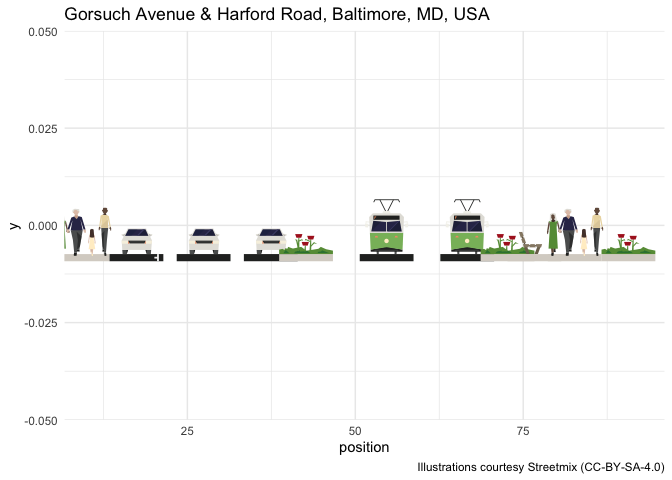
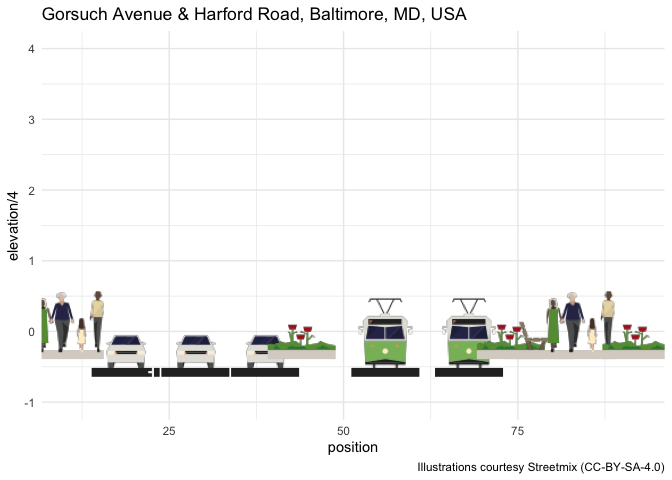
docs: rebuild README
Also add ggsvg to Suggests

diff --git a/README.md b/README.md
@@ -23,13 +23,13 @@ Streetmix uses [the Axios
 library](https://docs.streetmix.net/contributing/code/reference/helpers)
 to support the following end-points:
 
--   getStreet,
--   deleteStreetImage
--   getGalleryForUser
--   getGalleryForAllStreets
--   getSentimentSurveyStreet
--   postSentimentSurveyVote
--   putSentimentSurveyComment
+- getStreet,
+- deleteStreetImage
+- getGalleryForUser
+- getGalleryForAllStreets
+- getSentimentSurveyStreet
+- postSentimentSurveyVote
+- putSentimentSurveyComment
 
 The get_streets function supports getStreet (using url or street_id),
 getGalleryForUser (using user_id), and getGalleryForAllStreets (using
@@ -76,7 +76,8 @@ a Streetmix url:
 street <-
   get_street(
     url = "https://streetmix.net/eli.pousson/6/harford-road-south-of-gorsuch-avenue-1950s",
-    return = "street")
+    return = "street"
+  )
 ```
 
 The segment data for a street can be analyzed or plotted, as this
@@ -103,17 +104,22 @@ the [{ggsvg} package](https://github.com/coolbutuseless/ggsvg) to
 display the illustrations in their approximate positions:
 
 ``` r
-segments <- street$segments %>% 
-  left_join(illustrations, by = c("type" = "name")) %>% 
+segments <- street$segments %>%
+  left_join(illustrations, by = c("type" = "name")) %>%
   mutate(
     position = cumsum(width)
   )
 
-segments$url <- sapply(segments$url, function(x) {paste(readLines(x), collapse = "\n")})
+segments$url <- sapply(segments$url, function(x) {
+  paste(readLines(x), collapse = "\n")
+})
 
 ggplot(data = segments) +
   ggsvg::geom_point_svg(
-    mapping = aes(x = position, y = 0, svg = url), size = 18
+    mapping = aes(x = position, y = elevation / 4, svg = url), size = 18
+  ) +
+  scale_y_continuous(
+    limits = c(-1, 4)
   ) +
   labs(
     title = street$location$label,
@@ -122,19 +128,24 @@ ggplot(data = segments) +
   theme_minimal()
 ```
 
+<img src="man/figures/README-illustrations-1.png" width="100%" />
+
 You can also get streets by user id or download a selection of recent
 streets using the \`count\` parameter:
 
 ``` r
-get_street(user_id = "eli.pousson")$streets %>% 
-  select(-c(creatorIp, data)) %>% 
+get_street(user_id = "eli.pousson")$streets %>%
+  select(-c(creatorIp, data)) %>%
   knitr::kable()
 ```
 
 | id                                   | namespacedId | status | name                                         | creatorId   | originalStreetId                     | clientUpdatedAt          | createdAt                | updatedAt                |
 |:-------------------------------------|-------------:|:-------|:---------------------------------------------|:------------|:-------------------------------------|:-------------------------|:-------------------------|:-------------------------|
+| 2c3905bf-1729-492b-8741-e5ad1298a4b6 |           10 | ACTIVE | Harford Road south of Gorsuch Avenue (1950s) | eli.pousson | 587bc700-3159-11ec-896a-75aec116883c | 2021-10-20T03:58:55.769Z | 2023-10-19T20:37:28.278Z | 2023-10-19T20:37:28.420Z |
+| 587bc700-3159-11ec-896a-75aec116883c |            6 | ACTIVE | Harford Road south of Gorsuch Avenue (1950s) | eli.pousson | 32bfe550-3159-11ec-896a-75aec116883c | 2021-10-20T03:58:55.769Z | 2021-10-20T03:53:54.809Z | 2023-07-31T14:22:04.892Z |
+| 48094c9a-d019-4495-b183-df202da0f2d9 |            9 | ACTIVE | Sample Mixed Use Path with Green Space       | eli.pousson | 13b8567a-223d-4fde-a7ed-100375e1ddc9 | 2023-05-04T19:42:15.333Z | 2023-07-31T14:21:52.653Z | 2023-07-31T14:21:52.812Z |
+| 13b8567a-223d-4fde-a7ed-100375e1ddc9 |            8 | ACTIVE | Sample Mixed Use Path with Green Space       | eli.pousson | 874d79aa-d56f-4930-a3bb-32bafdb9006a | 2023-05-04T19:42:15.333Z | 2023-05-04T17:29:57.796Z | 2023-05-04T19:42:15.927Z |
 | b26529c0-c1ad-11ec-877c-abfad556cfc6 |            7 | ACTIVE | N. Conkling Street (north of Eastern Avenue) | eli.pousson | f73c9f80-c1a6-11ec-877c-abfad556cfc6 | 2022-04-28T18:59:47.530Z | 2022-04-21T20:00:30.820Z | 2022-04-28T18:59:48.282Z |
-| 587bc700-3159-11ec-896a-75aec116883c |            6 | ACTIVE | Harford Road south of Gorsuch Avenue (1950s) | eli.pousson | 32bfe550-3159-11ec-896a-75aec116883c | 2021-10-20T03:58:55.769Z | 2021-10-20T03:53:54.809Z | 2021-10-20T03:58:56.384Z |
 | 32bfe550-3159-11ec-896a-75aec116883c |            5 | ACTIVE | Harford Road south of Gorsuch Avenue         | eli.pousson | 018fb100-3158-11ec-896a-75aec116883c | 2021-10-20T03:52:28.031Z | 2021-10-20T03:52:51.511Z | 2021-10-20T03:52:51.654Z |
 | 7e06c6b0-4793-11eb-a7cc-b5a263b6bae7 |            4 | ACTIVE | NA                                           | eli.pousson | 0f21bd30-90d3-11ea-946a-abc0544fc0fc | 2020-05-08T02:23:59.740Z | 2020-12-26T16:00:36.548Z | 2020-12-26T16:00:37.959Z |
 | 46ce4c10-918e-11ea-98a3-a330b250095e |            3 | ACTIVE | NA                                           | eli.pousson | NA                                   | 2020-05-09T00:44:42.367Z | 2020-05-09T00:44:44.793Z | 2020-05-09T00:44:45.273Z |
